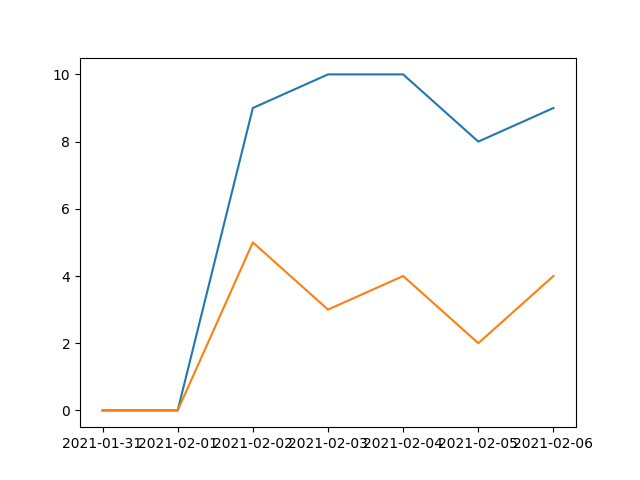
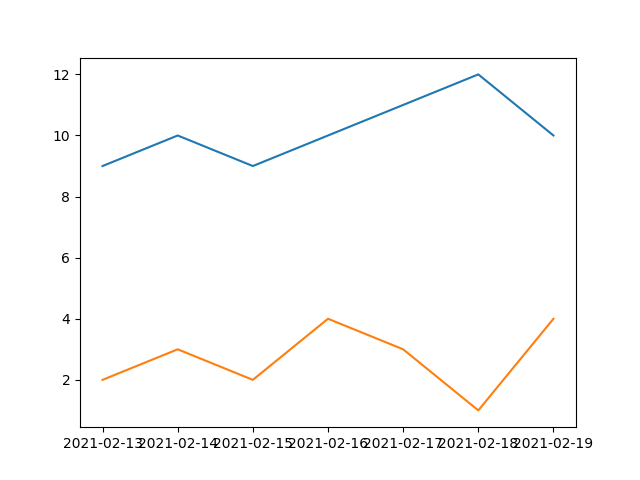
Added run time plotting, implemented add function

diff --git a/GUI Application/app.py b/GUI Application/app.py
@@ -1,7 +1,19 @@
 from PyQt5 import QtCore, QtGui, QtWidgets
+import numpy as np
+import matplotlib.pyplot as plt 
 import datetime
+import sys
+
+sys.path.append('../DataBase/')
+from db import Management
 
 class Ui_workHoursAnalysis(object):
+
+    def __init__(self):
+        self.database = Management()
+        self.data = self.database.returnData()
+        self.analyse()
+
     def setupUi(self, workHoursAnalysis):
         workHoursAnalysis.setObjectName("workHoursAnalysis")
         workHoursAnalysis.resize(800, 603)
@@ -254,22 +266,43 @@ class Ui_workHoursAnalysis(object):
         self.nextWeek.setText(_translate("workHoursAnalysis", ">"))
 
     def add_clicked(self, dateVal, workVal, wasteVal):
-        print('ADD', str(dateVal.year())+'/'+str(dateVal.month())+'/'+str(dateVal.day()), workVal, wasteVal)
+        dateVal = datetime.datetime(dateVal.year(), dateVal.month(), dateVal.day())
+        self.database.insertData([str(dateVal.strftime('%Y-%m-%d')), workVal, wasteVal])
+        print('ADD', str(dateVal), workVal, wasteVal)
+        self.update()
     
     def update_clicked(self, dateVal, workVal, wasteVal):
-        print('UPDATE', str(dateVal.year())+'/'+str(dateVal.month())+'/'+str(dateVal.day()), workVal, wasteVal)
+        print('UPDATE', str(dateVal), workVal, wasteVal)
     
     def pre_clicked(self):
+        """Plot of previous week"""
         dateRange = self.weekDate.text().split(' ')
         lDate = datetime.datetime.strptime(dateRange[0], '%d/%m/%Y') - datetime.timedelta(days=7)
         rDate = datetime.datetime.strptime(dateRange[-1], '%d/%m/%Y') - datetime.timedelta(days=7)
         self.weekDate.setText(lDate.strftime('%d/%m/%Y') + ' - ' + rDate.strftime('%d/%m/%Y'))
     
     def next_clicked(self):
+        """Plot of previous week"""
         dateRange = self.weekDate.text().split(' ')
         lDate = datetime.datetime.strptime(dateRange[0], '%d/%m/%Y') + datetime.timedelta(days=7)
         rDate = datetime.datetime.strptime(dateRange[-1], '%d/%m/%Y') + datetime.timedelta(days=7)
         self.weekDate.setText(lDate.strftime('%d/%m/%Y') + ' - ' + rDate.strftime('%d/%m/%Y'))
+
+    def update(self):
+        """Update the plot with every addition or updation"""
+        self.data = self.database.returnData()
+        print(self.data)
+        self.analyse()
+        self.graph.setPixmap(QtGui.QPixmap("plot.png"))
+
+    def analyse(self):
+        """Plotting the data that was extracted from the database"""
+        data = np.array(self.data[-7:]).T
+        X = np.array(data[1:3]).astype('float64')
+
+        plt.plot(data[0], X[0], X[1])
+        plt.savefig('plot.png')
+        plt.clf()
 
 
 if __name__ == "__main__":
